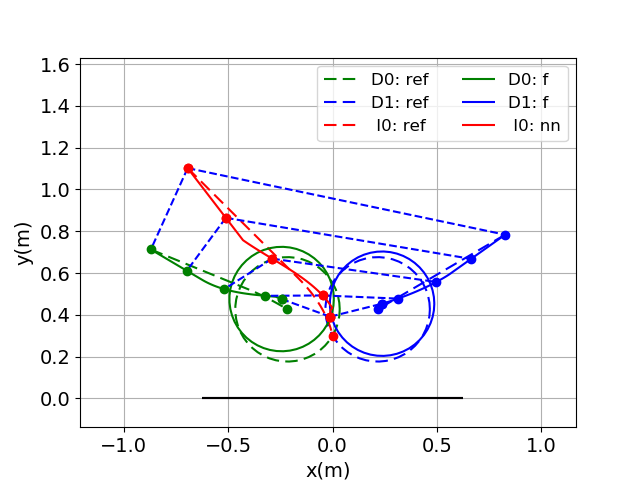
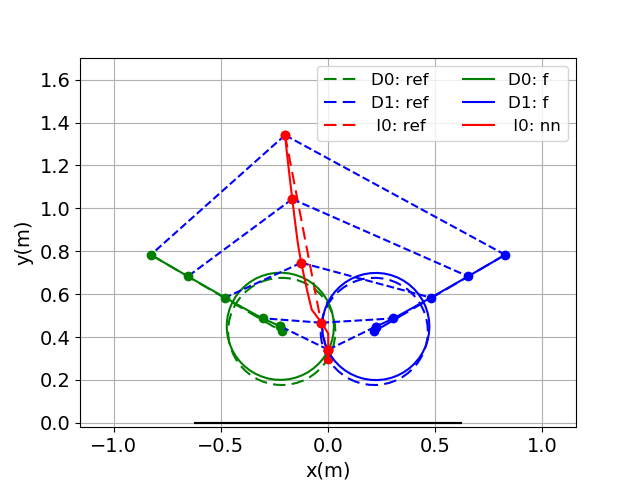
did some simulations

diff --git a/plotter.py b/plotter.py
@@ -24,7 +24,7 @@ class Plotter(object):
 		self.a = game.a
 		self.target = game.target
 
-	def get_data(self, fn, midx=0, midy=0, kx=1., ky=1., n=50):
+	def get_data(self, fn, midx=0, midy=0, kx=1., ky=1., n=80):
 		x = np.linspace(midx+kx*self.xlim[0], midx+kx*self.xlim[1], n)
 		y = np.linspace(midy+ky*self.ylim[0], midy+ky*self.ylim[1], n)
 		X, Y = np.meshgrid(x, y)
@@ -89,13 +89,20 @@ class Plotter(object):
 		CC = self.ax.contour(vctr['X'], vctr['Y'], vctr['data'], [0], linestyles=(self.dcontour_specs['line'],))
 		self.ax.clabel(CC, inline=True, fontsize=10)
 		self.ax.contour(vctr['X'], vctr['Y'], vctr['data'], levels=levels, colors=(self.dcontour_specs['color'],), linestyles=(self.dcontour_specs['line'],))
-	
+		self.plot_capture_ring('D0', None, xds[0])
+		self.plot_capture_ring('D1', None, xds[1])
+
 	def plot_capture_ring(self, player, situation, x, n=50):
 		xs, ys = [], []
 		for t in np.linspace(0, 2*pi, n):
 			xs.append(x[0] + self.r*cos(t))
 			ys.append(x[1] + self.r*sin(t))
-		self.ax.plot(xs, ys, color=self.colors[player], linestyle=self.linestyles[situation])
+		if situation is None:
+			self.ax.plot(xs, ys, color=self.colors[player], linestyle=(0, ()))	
+			self.ax.plot(x[0], x[1], '.', color=self.colors[player], linestyle=(0, ()))	
+		else:
+			self.ax.plot(xs, ys, color=self.colors[player], linestyle=self.linestyles[situation])
+			self.ax.plot(x[0], x[1], '.', color=self.colors[player], linestyle=self.linestyles[situation])
 
 	def plot_traj(self, player, situation, xs, label=None):
 		if label is not None:
@@ -118,14 +125,16 @@ class Plotter(object):
 				self.ax.plot(x1[0], x1[1], 'o', color=self.colors[p1])
 				self.ax.plot(x2[0], x2[1], 'o', color=self.colors[p2])
 
-	def show_plot(self, xlim, ylim, fname=None):
+	def show_plot(self, xlim=None, ylim=None, fname=None):
 		self.ax.axis('equal')
 		self.ax.grid()
 		self.ax.tick_params(axis='both', which='major', labelsize=14)
 		plt.xlabel('x(m)', fontsize=14)
 		plt.ylabel('y(m)', fontsize=14)
-		self.ax.set_xlim(xlim)
-		self.ax.set_ylim(ylim)
+		if xlim is not None:
+			self.ax.set_xlim(xlim)
+		if ylim is not None:
+			self.ax.set_ylim(ylim)
 		plt.gca().legend(prop={'size': 12}, ncol=2)
 		if fname is not None:
 			self.fig.savefig(self.game.res_dir+fname)
@@ -142,34 +151,39 @@ class Plotter(object):
 				labels[role] = None
 		return labels
 
-	def plot(self, xs, geox='', ps=None, dr=False, ndr=0, dcontour=False, fname=None):
+	def plot(self, xs, geox='', ps=None, traj=True, dr=False, ndr=0, dcontour=False, fname=None):
 		# ps: policies dict: {'D0': , 'D1': , 'I': }
-		for k in xs:
-			pass
-		xmin = np.amin(np.array([x[:,0] for p, x in xs[k].items()]))
-		xmax = np.amax(np.array([x[:,0] for p, x in xs[k].items()]))
-		ymin = np.amin(np.array([x[:,1] for p, x in xs[k].items()]))
-		ymax = np.amax(np.array([x[:,1] for p, x in xs[k].items()]))
-		dx = (xmax - xmin)*0.2
-		dy = (ymax - ymin)*0.3
 
-		# fig = plt.figure()
-		xlim = (xmin-dx, xmax+dx)
-		ylim = (ymin-dy, ymax+dy)
-
-		ps = self.process_policy_labels(ps)
-
-		plot_geo = False
 		self.plot_target()
-		for situ, x in xs.items():
-			for pid, px in x.items():
-				self.plot_traj(pid, situ, px, label=ps[pid])
-				if 'D' in pid:
-					self.plot_capture_ring(pid, situ, px[-1, :])
-			if situ == geox:
-				plot_geo = True
-				self.plot_connect('I0', 'D0', x['I0'], x['D0'])
-				self.plot_connect('I0', 'D1', x['I0'], x['D1'])
+
+		if traj:
+
+			plot_geo = False
+			ps = self.process_policy_labels(ps)
+			for k in xs:
+				pass
+			xmin = np.amin(np.array([x[:,0] for p, x in xs[k].items()]))
+			xmax = np.amax(np.array([x[:,0] for p, x in xs[k].items()]))
+			ymin = np.amin(np.array([x[:,1] for p, x in xs[k].items()]))
+			ymax = np.amax(np.array([x[:,1] for p, x in xs[k].items()]))
+			dx = (xmax - xmin)*0.2
+			dy = (ymax - ymin)*0.3
+			# fig = plt.figure()
+			xlim = (xmin-dx, xmax+dx)
+			ylim = (ymin-dy, ymax+dy)
+
+			for situ, x in xs.items():
+				for pid, px in x.items():
+					self.plot_traj(pid, situ, px, label=ps[pid])
+					if 'D' in pid:
+						self.plot_capture_ring(pid, situ, px[-1, :])
+				if situ == geox:
+					plot_geo = True
+					self.plot_connect('I0', 'D0', x['I0'], x['D0'])
+					self.plot_connect('I0', 'D1', x['I0'], x['D1'])
+		else:
+			xlim, ylim = None, None
+			plot_geo = True
 
 		if plot_geo: 
 			# print('here')

diff --git a/Games.py b/Games.py
@@ -109,6 +109,20 @@ class BaseGame(object):
 					if 'istrategy' in line:
 						self.istrategy = line.split(',')[1].rstrip()
 
+			fname = self.res_dir+'traj_param.csv'
+			if os.path.exists(fname):
+				os.remove(fname)
+
+			with open(fname, 'a') as f:
+				f.write('vd,%.3f\n'%self.vd)
+				f.write('vi,%.3f\n'%self.vi)
+				f.write('rc,%.3f\n'%self.r)
+				# f.write('rt,%.3f\n'%self.rt)
+				f.write('r_close,%.3f\n'%(self.r_close/self.r))
+				f.write('k_close,%.3f\n'%self.k_close)
+
+
+
 							
 		# print(self.istrategy)
 		self.target = target
@@ -290,7 +304,7 @@ class SlowDgame(BaseGame):
 		self.policy_dict['nn'] = self.nn_strategy
 		self.policy_dict['w'] = self.w_strategy
 		self.policy_dict['h'] = self.h_strategy
-		self.strategy = closeWrapper(self.policy_dict[self.dstrategy], self.policy_dict[self.dstrategy])
+		self.strategy = closeWrapper(self.policy_dict[self.dstrategy], self.policy_dict[self.istrategy])
 
 	def generate_analytic_traj(self, S, T, gmm, D, delta, n=50, file='traj_param_100.csv', usage='sim'):
 		assert S >= self.s_lb
@@ -302,17 +316,15 @@ class SlowDgame(BaseGame):
 			if not os.path.exists('params/'):
 				os.mkdir('params/')
 		elif usage == 'sim':
-			fname = self.res_dir + file
-		if os.path.exists(fname):
-			os.remove(fname)
+			fname = self.res_dir + 'traj_param.csv'
 
 		with open(fname, 'a') as f:
-			f.write('vd,%.3f\n'%self.vd)
-			f.write('vi,%.3f\n'%self.vi)
-			f.write('rc,%.3f\n'%self.r)
-			# f.write('rt,%.3f\n'%self.rt)
-			f.write('r_close,%.3f\n'%(self.r_close/self.r))
-			f.write('k_close,%.3f\n'%self.k_close)
+			# f.write('vd,%.3f\n'%self.vd)
+			# f.write('vi,%.3f\n'%self.vi)
+			# f.write('rc,%.3f\n'%self.r)
+			# # f.write('rt,%.3f\n'%self.rt)
+			# f.write('r_close,%.3f\n'%(self.r_close/self.r))
+			# f.write('k_close,%.3f\n'%self.k_close)
 
 			f.write('S,%.10f\n'%S)
 			f.write('T,%.10f\n'%T)
@@ -436,6 +448,7 @@ class SlowDgame(BaseGame):
 		x = np.concatenate((xs['D0'], xs['I0'], xs['D1']))
 		for role, p in self.policies.items():
 			acts[role] = p.predict(x[None])[0]
+		# print('nn')
 		return acts
 
 	@Iwin_wrapper
@@ -547,14 +560,16 @@ class FastDgame(BaseGame):
 	"""docstring for FastDgame"""
 	def __init__(self, target, ni=1, nd=2, exp_dir=None, sim_dir=None):
 		super(FastDgame, self).__init__(target, gtype='fastD', exp_dir=exp_dir, sim_dir=sim_dir, ni=ni, nd=nd)
-		self.strategy = mixWrapper(self.policy_dict[self.dstrategy], self.policy_dict[self.dstrategy])
+		self.strategy = mixWrapper(self.policy_dict[self.dstrategy], self.policy_dict[self.istrategy])
 
 	def deepest_in_target(self, xs):
+		# print('hi')
 		dr = DominantRegion(self.r, self.a, xs['I0'], (xs['D0'], xs['D1']))
 		return self.target.deepest_point_in_dr(dr, target=self.target)
 
 	def f_strategy(self, xs):
 		xt = self.deepest_in_target(xs)
+
 		xi, xds = xs['I0'], (xs['D0'], xs['D1'])
 
 		IT = np.concatenate((xt - xi, np.zeros((1,))))

diff --git a/strategy_test.py b/strategy_test.py
@@ -11,15 +11,15 @@ with open('config.csv', 'r') as f:
 			vd = float(line.split(',')[-1])
 		if 'vi' in line:
 			vi = float(line.split(',')[-1])
-sim_dir = 'res2/'			
+sim_dir = 'res4/'			
 xplot = dict()
 
 if vd >= vi:
 	game = FastDgame(LineTarget(), sim_dir=sim_dir)
-	x0 = {'D0': np.array([-.6, 0.9]), 'I0': np.array([-.1, 1.2]), 'D1': np.array([.6, 0.9])}
+	x0 = {'D0': np.array([-.8, 0.2]), 'I0': np.array([-.1, .4]), 'D1': np.array([.8, 0.2])}
 else:
 	game = SlowDgame(LineTarget(), sim_dir=sim_dir)
-	xref = game.generate_analytic_traj(.0, 5, acos(1/1.5)+0.2,0,0.1999999999, file='traj_param.csv')
+	xref = game.generate_analytic_traj(.0, 5, acos(1/1.5)+0.2,0,0.1899999999, file='traj_param.csv')
 	for role, xs in xref.items():
 		for i, x in enumerate(xs):
 			xs[i] = x + np.array([0, .3])
@@ -28,10 +28,10 @@ else:
 	# x0 = {'D0': np.array([-.6, 0.9]), 'I0': np.array([-.1, 1.2]), 'D1': np.array([.6, 0.9])}
  
 game.reset(x0)
-tplay, xplay = game.advance(10.)
+tplay, xplay = game.advance(1.)
 xplot['play'] = xplay
 
 fname = '_'.join([strategy for role, strategy in game.pstrategy.items()])
-game.plotter.plot(xplot, 'play', ps=game.pstrategy, fname='traj_'+fname+'.png')
+game.plotter.plot(xs=xplot, geox='play', ps=game.pstrategy, dcontour=True, traj=False, fname='traj_'+fname+'.png')
 
 

diff --git a/strategyWrapper.py b/strategyWrapper.py
@@ -16,6 +16,7 @@ def Iwin_wrapper(strategy):
 			return acts
 		else:
 			acts = strategy(args[0], args[1])
+			# print(strategy.__name__)
 			for role in args[0].players:
 				acts['p_'+role] = strategy.__name__
 			return acts
@@ -138,7 +139,7 @@ def mixWrapper(dstrategy, istrategy):
 				action['p_'+role] = dact['p_'+role]
 			if 'I' in role:
 				action['p_'+role] = iact['p_'+role]
-
+		# print(action)
 		return action
 
 	return wrapper	
